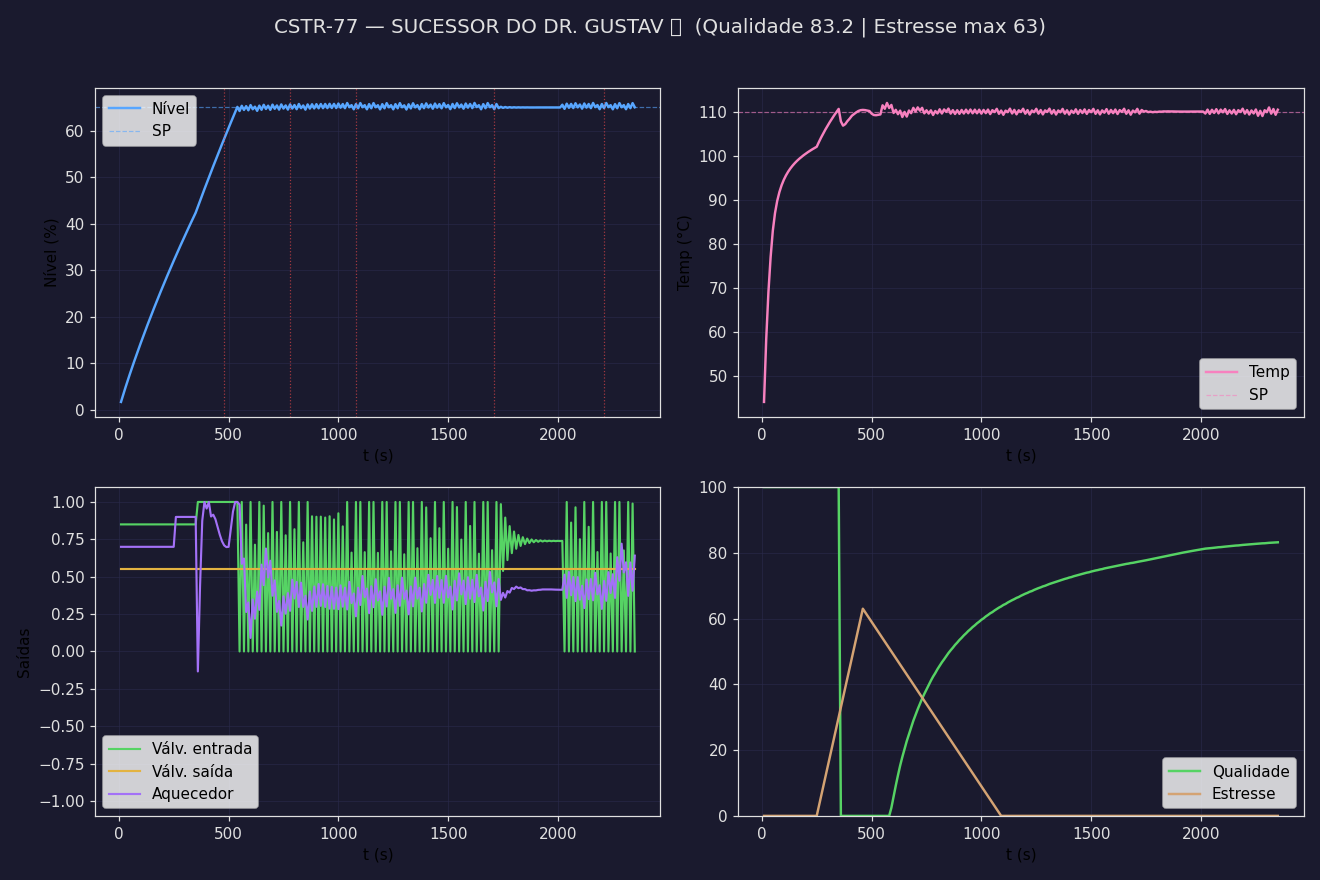
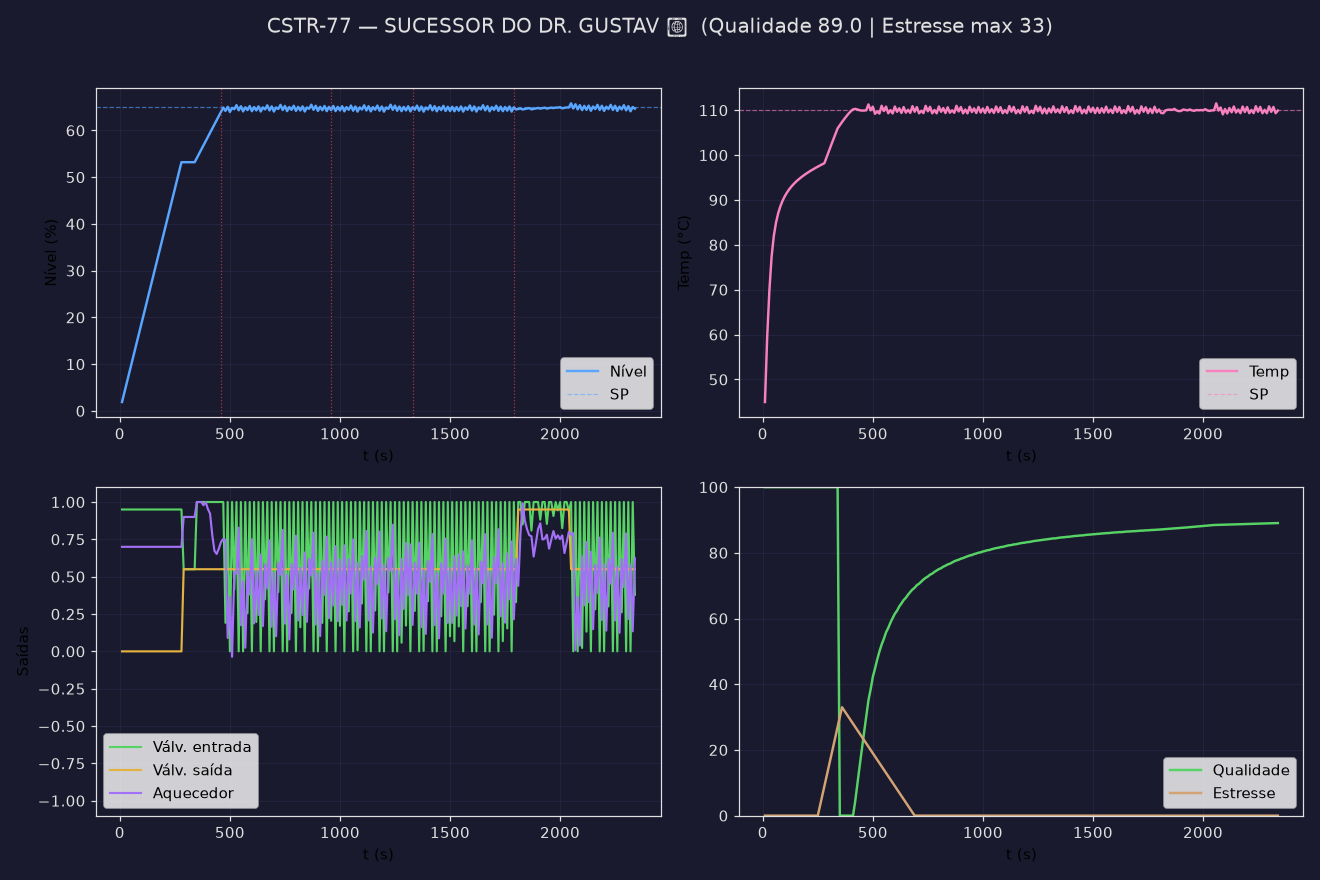
dificuldade: saida constante (tanque integrador), PID do Gustav ruim de proposito, perturbacoes mais fortes + evento chiller e dedup
Sem sintonia agora falha (qualidade ~39, Almoxarifado) vs boa sintonia (~87, Sucessor): a Fase 2 volta a ensinar tuning.

diff --git a/simulador_cstr77.py b/simulador_cstr77.py
@@ -51,20 +51,21 @@ P = {
     "sp_level": 65.0,   # %
     "sp_temp": 110.0,   # °C
 }
-K_VALV   = P["q_max"]              # válvula de saída por gravidade: q = K*sqrt(h)*u
 V_MIN_THERM = 0.8                  # L: volume de imersão do aquecedor (evita V->0 explodir)
 
 EVENTOS = {
-    "queda":     dict(nome="QUEDA DA MATÉRIA-PRIMA", dur=30,
-                      msg="📉 A pressão da linha caiu: vazão de entrada -40%."),
-    "calor":     dict(nome="ONDA DE CALOR", dur=30,
-                      msg="🌡 Água de torre quente: +12 °C na jaqueta."),
-    "tanque":    dict(nome="OPERADOR DO TANQUE", dur=20,
-                      msg="🚨 Alguém abriu a válvula de saída do reator!"),
-    "cafeteira": dict(nome="EFEITO CAFETERIA", dur=20,
-                      msg="☕ Equipamento de alta potência na rede: alimentação 15 °C mais fria."),
-    "greve":     dict(nome="GREVE DOS FORNECEDORES", dur=40,
+    "queda":     dict(nome="QUEDA DA MATÉRIA-PRIMA", dur=35,
+                      msg="📉 A pressão da linha caiu: vazão de entrada -50%."),
+    "calor":     dict(nome="ONDA DE CALOR", dur=35,
+                      msg="🌡 Água de torre quente: +15 °C na jaqueta."),
+    "tanque":    dict(nome="OPERADOR DO TANQUE", dur=25,
+                      msg="🚨 Alguém abriu a válvula de saída do reator (+40% de vazão)!"),
+    "cafeteira": dict(nome="EFEITO CAFETERIA", dur=25,
+                      msg="☕ Equipamento de alta potência na rede: alimentação 18 °C mais fria."),
+    "greve":     dict(nome="GREVE DOS FORNECEDORES", dur=45,
                       msg="🛑 Greve dos fornecedores: a vazão de entrada diminui lentamente."),
+    "chiller":   dict(nome="FALHA DO REFRIGERANTE", dur=30,
+                      msg="🧊 Falha no chiller: perda temporária da refrigeração ativa."),
 }
 
 # Títulos do placar (estilo do briefing)
@@ -120,8 +121,10 @@ def passo_cstr(N, T, h, u_in, u_out, u_heat, p,
     """Avança o CSTR em DT. Estado molar (N = mols de A) evita divisão por
     volume ~0. u_in,u_out em [0,1]; u_heat em [-1,1]."""
     V = max(h * p["V_max"], 1e-9)
+    # vlv de saída = demanda CONSTANTE (bomba de descarga): tanque vira
+    # integrador puro -> PID P-only deixa offset real, precisa da ação integral.
     q_in = p["q_max"] * u_in * qf
-    q_out = min(K_VALV * (h ** 0.5) * u_out, V / DT + 1e-9)
+    q_out = min(p["q_max"] * u_out, V / DT + 1e-9)
 
     # ---- nível (volume)
     h_n = min(1.0, max(0.0, h + (q_in - q_out) * DT / p["V_max"]))
@@ -152,11 +155,13 @@ class CSTR77:
         self.tick = 0
         self.mode = "MANUAL"
         self.u_in = self.u_out = self.u_heat = 0.0
-        # Sintonia "do Dr. Gustav" (propositalmente ruim): nível sem I -> offset;
-        # temperatura agressiva -> oscila.
-        self.pid_l = PID(0.3, 0.0, 0.0)          # nível: erro em %, saída [0,1]
-        self.pid_t = PID(0.3, 0.02, 0.0, out_min=-1.0, out_max=1.0)  # temp: bipolar
+        # Sintonia "do Dr. Gustav" (propositalmente RUIM): nível com ganho baixo
+        # e SEM integral -> offset visível no tanque integrador; temperatura com
+        # excesso de ganho/integral -> oscila. A Fase 2 existe para corrigir isso.
+        self.pid_l = PID(0.12, 0.0, 0.0)          # nível: saída [0,1], sem I -> offset
+        self.pid_t = PID(1.2, 0.20, 0.0, out_min=-1.0, out_max=1.0)  # temp: bipolar, agressivo
         self.eventos_ativos = {}                 # nome -> ticks restantes
+        self.last_event = None                   # dedup: não repete o último evento
         self.iae_l = self.iae_t = 0.0            # brutos: %·s e °C·s (fase AUTO)
         self._qual_start = False                 # qualidade conta a partir do AUTO
         self._t_auto = 0
@@ -202,30 +207,36 @@ class CSTR77:
             u_heat_c = self.pid_t.update(P["sp_temp"], self.T, DT)
         else:
             u_in_c, u_heat_c = self.u_in, self.u_heat
-        # ----- perturbações (eventos)
-        qf = 1.0; dTc = 0.0; dTi = 0.0; u_out_eff = self.u_out; greve = 0.0
+        # ----- perturbações (eventos) — efeitos FORTES p/ exigirem robustez
+        qf = 1.0; dTc = 0.0; dTi = 0.0; u_out_eff = self.u_out; greve = 0.0; chiller = 0
         for ev in list(self.eventos_ativos):
             self.eventos_ativos[ev] -= 1
             if self.eventos_ativos[ev] <= 0:
                 del self.eventos_ativos[ev]
                 continue
             if ev == "queda":
-                qf = 0.6
+                qf = 0.5
             elif ev == "calor":
-                dTc = 12.0
+                dTc = 15.0
             elif ev == "cafeteira":
-                dTi = -15.0
+                dTi = -18.0
             elif ev == "tanque":
-                u_out_eff = min(1.0, self.u_out + 0.3)
+                u_out_eff = min(1.0, self.u_out + 0.4)
             elif ev == "greve":
                 greve = 1.0   # rampa: qf cai gradualmente
+            elif ev == "chiller":
+                chiller = 1   # perde a refrigeração ativa (aq não pode esfriar)
         if greve:
-            # rampa lenta: cada tick 2% menos, até 65%
-            qf = max(0.65, qf - 0.02 * greve)
-        # novo evento a partir do tick 40
+            # rampa lenta: cada tick 2% menos, até 50%
+            qf = max(0.50, qf - 0.015 * greve)
+        if chiller:
+            u_heat_c = max(u_heat_c, 0.0)   # só aquece; sem capacidade de esfriar
+        # novo evento a partir do tick 40 (dedup: não repete o último)
         if (self.tick >= 40 and not self.eventos_ativos
-                and random.random() < 0.05):
-            nome = random.choice(list(EVENTOS))
+                and random.random() < 0.06):
+            opcoes = [k for k in EVENTOS if k != self.last_event] or list(EVENTOS)
+            nome = random.choice(opcoes)
+            self.last_event = nome
             self.eventos_ativos[nome] = EVENTOS[nome]["dur"]
             self.marcos_eventos.append((self.tick, EVENTOS[nome]["nome"]))
             print("  ⚡ " + EVENTOS[nome]["msg"])
@@ -456,21 +467,21 @@ class CSTR77:
 # ------------------------- fluxo interativo / demo -------------------------
 def demo():
     """Execução de referência ('gabarito') para verificação do professor.
-    Joga bem: partida manual moderada, depois AUTO com boa sintonia."""
+    Joga bem: enche com saída fechada, abre/equilibra, AUTO com boa sintonia."""
     semente = int(sys.argv[2]) if len(sys.argv) > 2 else 7
     g = CSTR77(semente=semente)
-    # Fase 1: partida manual — enche e aquece sem exagerar
-    g.executar("q 55")
-    g.executar("n 85")
+    # Fase 1: partida manual — enche com a saída fechada (integrator)
+    g.executar("q 0")
+    g.executar("n 95")
     g.executar("r 70")
-    g.tick_step(25)                     # ~250 s
-    g.executar("r 90")
-    g.tick_step(10)
+    g.tick_step(28)                     # ~53% de nível
+    g.executar("q 55"); g.executar("n 55"); g.executar("r 90")
+    g.tick_step(6)
     g.executar("status")
     # Fase 2: automático + boa sintonia (gabarito)
     g.executar("auto")
-    g.executar("pid n 1.4 0.02 0.1")
-    g.executar("pid t 0.12 0.01 0.1")
+    g.executar("pid n 1.5 0.05 0.1")
+    g.executar("pid t 0.20 0.03 0.2")
     for _ in range(20):
         g.tick_step(5)
     # Fase 3: eventos surpresa

diff --git a/README.md b/README.md
@@ -62,12 +62,16 @@ simulação e re-renderiza.
 
 ## Roteiro de jogo sugerido
 
-1. `q 55`, `n 85`, `r 70` → enche e aquece no manual
-2. `esp 25` → observa nível/temperatura subirem
-3. `auto` → liga os PID (sintonia "do Dr. Gustav", ruins de propósito)
-4. `pid n 1.4 0.02 0.1` e `pid t 0.12 0.01 0.1` → retune
+1. **Encha** com a saída fechada: `q 0`, `n 95`, `r 70`; `esp 28`
+2. Abra a saída e equilibre: `q 55`, `n 55`, `r 90`; `esp 6`
+3. `auto` → liga os PID (sintonia do Dr. Gustav, **ruim de propósito**)
+4. Retune: `pid n 1.5 0.05 0.1` e `pid t 0.20 0.03 0.2`
 5. `esp 20` → deixa surgir os eventos surpresa
 6. `relatorio` → entrega o relatório
+
+> **Dica de partida**: a saída é uma **bomba de descarga constante** (o tanque é um
+> integrador). Se abrir a válvula de saída antes de encher, o enchimento fica lento —
+> encha com `q 0` e só depois abra a saída.
 
 ## Modelo físico
 
@@ -75,9 +79,11 @@ simulação e re-renderiza.
 - **Balanço molar** `N = C·V`, `dN/dt = q_in·C_A0 − q_out·C − r·V` (robusto para `V→0`).
 - **Energia**: aquecedor bipolar (aquecer/esfriar), reação exotérmica de 1ª ordem
   (`r = k₀·exp(−Ea/(R·T))·C`), remoção por alimentação e jaqueta.
-- **Escorvento de saída por gravidade**: `q_out = K·√h·u`.
+- **Escorvamento de saída por bomba de descarga constante**: `q_out = q_max·u`
+  (o tanque é um integrador puro; PID sem integral deixa offset — lição da Fase 2).
 - **Controle**: PID posicional com anti-windup e derivada filtrada sobre a medição;
-  saída bipolar de temperatura (`[-1,1]`).
+  saída bipolar de temperatura (`[-1,1]`). Sintonia default "do Dr. Gustav" ruim
+  de propósito (nível com ganho baixo sem `I` → offset; temperatura agressiva → oscila).
 
 ## Gamificação
 
